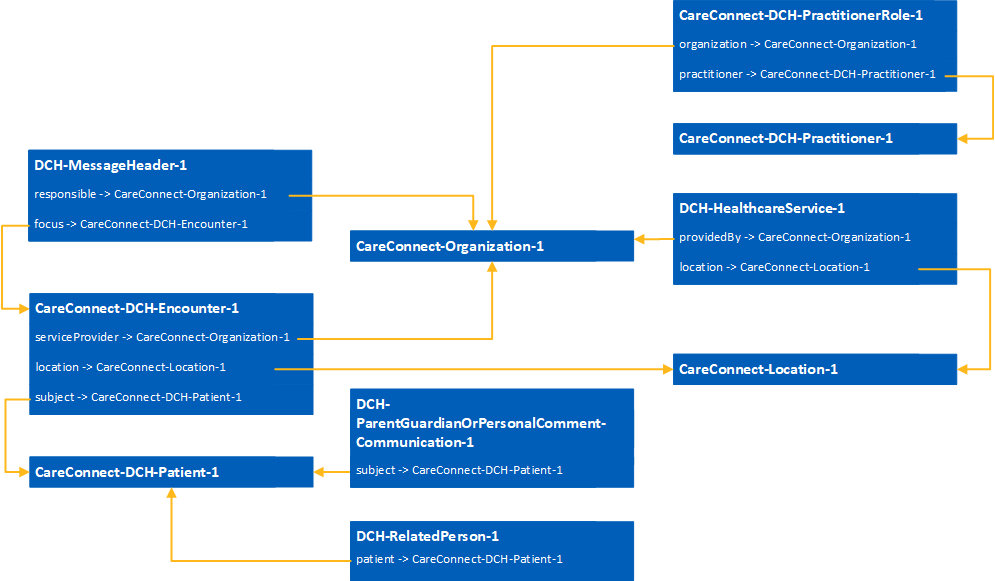
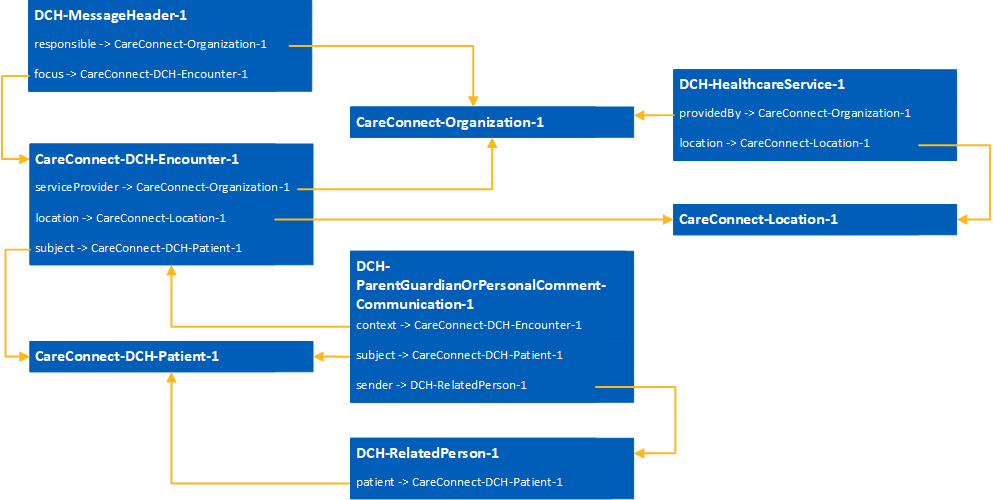
Updates to Parent, Guardian or Personal Comment IG pages menu update

diff --git a/pages/explore/explore_parent_guardian_or_personal_comment.md b/pages/explore/explore_parent_guardian_or_personal_comment.md
@@ -18,8 +18,6 @@ The following FHIR profiles are used to form the Parent, Guardian or Personal Co
 - [CareConnect-Location-1](https://fhir.hl7.org.uk/STU3/StructureDefinition/CareConnect-Location-1)
 - [DCH-ParentGuardianOrPersonalComment-Communication-1](https://fhir.nhs.uk/STU3/StructureDefinition/DCH-ParentGuardianOrPersonalComment-Communication-1)
 - [DCH-RelatedPerson-1](https://fhir.nhs.uk/STU3/StructureDefinition/DCH-RelatedPerson-1)
-- [CareConnect-DCH-Practitioner-1](https://fhir.nhs.uk/STU3/StructureDefinition/CareConnect-DCH-Practitioner-1)
-- [CareConnect-DCH-PractitionerRole-1](https://fhir.nhs.uk/STU3/StructureDefinition/CareConnect-DCH-PractitionerRole-1)
 
 
 ### Parent, Guardian or Personal Comment Event data item mapping to FHIR profiles ###
@@ -32,9 +30,12 @@ The Child Health Event data items are fulfilled by elements within the FHIR reso
 | DCH Data Item       | FHIR resource element                     | Mandatory/Required/Optional | Note                                      |
 |---------------------|-------------------------------------------|-----------------------------|-------------------------------------------|
 | Date/Time           | DCH-ParentOrGuardianComment-Communication-1.sent  | Mandatory           |                                      |
-| Name                | CareConnect-DCH-Practitioner.name         | Required                    |                                      |
+| Name of Person recording the comment    | DCH-RelatedPerson-1.name         | Required                    |                                      |
 | Details             | DCH-ParentOrGuardianComment-Communication-1.payload.contentString | Required                    |                                      |
-| Relationship Status | DCH-RelatedPerson-1.relationship          | Required                    | For Parent, Guardian or Personal Comment, the Relationship Status SHALL come from the bound ValueSet    |
+| Relationship Status | DCH-RelatedPerson-1.relationship          | Required                    | **\***                |
+
+**\*** For Parent, Guardian or Personal Comment, the Relationship Status SHALL come from the bound ValueSet [DCH-PersonRelationshipType-1](https://fhir.nhs.uk/STU3/ValueSet/DCH-PersonRelationshipType-1).  
+Where one of the 'Other' codes (ORO, ORX, OTX) are used text must be provided describing the relationship.
 
 
 ### Reference Linkage Diagram ###
@@ -45,6 +46,6 @@ This Linkage diagram defines the required references that SHALL be made between 
 
 ### Examples ###
 
-<script src="https://gist.github.com/IOPS-DEV/.js"></script>
+<script src="https://gist.github.com/IOPS-DEV/d147f1bd3dfa911ca267b25137051a9e.js"></script>
 
-<script src="https://gist.github.com/IOPS-DEV/.js"></script>
+<script src="https://gist.github.com/IOPS-DEV/c6f59aa25a451d04077722e10b8e380c.js"></script>
